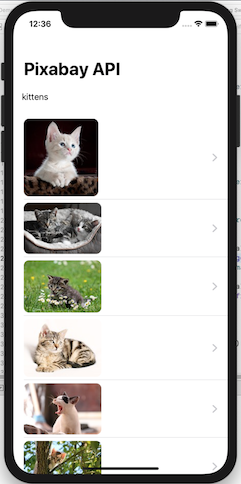
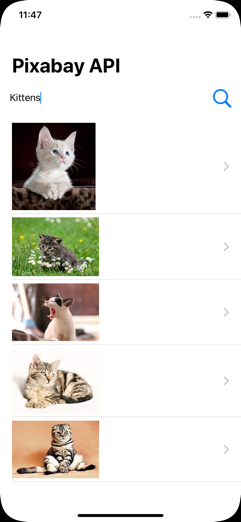
Updated README.md
Updated README.md to include details of changes for use of Combine framework

diff --git a/SwiftUI-ImageAPIDemo/SearchText.swift b/SwiftUI-ImageAPIDemo/SearchText.swift
@@ -10,16 +10,11 @@ import Foundation
 import SwiftUI
 import Combine
 
-/// A BindableObject that allows us to subscribe to changes to a String that is bound to a TextField.
+/// An ObservableObject that allows us to subscribe to changes to a String that is bound to a TextField.
 /// A simpler approach would be to have a @State String var with a didSet property observer. However,
-/// this doesn't seem to be supported (the didSet is never called) in SwiftUI currently (Xcode 11 Beta 3)
-class SearchText: BindableObject {
-    public var didChange = PassthroughSubject<Void, Never>()
+/// this doesn't seem to be supported (the didSet is never called) in SwiftUI currently (Xcode 11 Beta 5)
+class SearchText: ObservableObject {
+    //public var didChange = PassthroughSubject<Void, Never>()
     
-    public var text = "kittens" {
-        didSet {
-            print("Search text changed to: \(text)")
-            didChange.send()
-        }
-    }
+    @Published public var text = "kittens"
 }

diff --git a/SwiftUI-ImageAPIDemo/ContentView.swift b/SwiftUI-ImageAPIDemo/ContentView.swift
@@ -7,9 +7,9 @@
 //
 //  Updated for Xcode Beta 5
 //      -   @ObjectBinding deprecated for @ObservedObject
-//      -   BindableObject protocol deprecated for ObservableObject
-//      -   ObservableObject protocol requires objectWillChange property (publisher)
-//      -   Refactored PixabayHelper.loadImages(searchFor:) to use the Combine framework with URLSession dataTaskPublisher
+//      -   BindableObject protocol deprecated for ObservableObject in PixabayHelper
+//      -   Refactored PixabayHelper.loadImages(searchFor:) to use the Combine framework extension dataTaskPublisher on URLSession
+//      -   Refactored PixabayHelper to @Published imageData
 
 import SwiftUI
 

diff --git a/SwiftUI-ImageAPIDemo/PixabayHelper.swift b/SwiftUI-ImageAPIDemo/PixabayHelper.swift
@@ -43,6 +43,7 @@ class PixabayHelper: ObservableObject {
 
         pixabayUrl += pixabayApiKey + "&" + pixabayImageType + "&" + pixabayResultPerPage + "&q=" + searchFor
         
+        // Use the dataTaskPublisher(for:) Combine extension on URLSession to request data asynchronously
         let _ = URLSession.shared.dataTaskPublisher(for: URLRequest(url: URL(string: pixabayUrl)!))
             .receive(on: RunLoop.main)  // The whole chain fails without this!
             .tryMap { data, response -> Data in

diff --git a/SwiftUI-ImageAPIDemo/PixabayData.swift b/SwiftUI-ImageAPIDemo/PixabayData.swift
@@ -7,7 +7,6 @@
 //
 
 import Foundation
-import SwiftUI
 
 public struct PixabayData: Decodable {
     public var totalHits: Int

diff --git a/README.md b/README.md
@@ -1,11 +1,16 @@
 # SwiftUI-ImageAPIDemo
-Using SwiftUI to consume REST API with image data
+## Using SwiftUI and Combine to consume REST API image data
+**(Updated for Xcode 11 Beta 5)**
 
 ![](./readme-assets/final01.png)
 
-In this simple SwiftUI demo we create a simple iOS app that requests image data from Pixabay (https://pixabay.com) using its free REST-based API that returns JSON data.
+In this SwiftUI and Combine demo I create a simple iOS app that requests image data from Pixabay (https://pixabay.com) using its free REST-based API that returns JSON data.
+**SwiftUI** is used to create the UI and the new **Combine** framework is used to asynchronously request and decode JSON image data.
+
+The source shows the completed final version of the app. The text below provides details on how the app was created.
 
 ___
+
 ## Get a free Pixabay account
 First, register for an account at https://pixabay.com/en/accounts/register/
 
@@ -78,19 +83,19 @@ public struct PixabayImage: Decodable, Identifiable {
 ```
 
 * A class named **PixabayHelper**
-    * Used to make data requests to the REST API
-    * Decode the incoming JSON data and store it in a **pixabayData** private property
-    * Makes the **PixabayData.hits** array of **PixabayImage** data available via a public **imageData** property
-    * Conforms to the SwiftUI **BindableObject** protocol. This allows it to notify subscribers when data has been downloaded from Pixabay
-
+    * Used to make data requests to the REST API via a **Combine** extension **dataTaskPublisher(for:)** on **URLSession** 
+    * Decodes the incoming JSON data and caches it in a **pixabayData** property
+    * Makes the **PixabayData.hits** array of **PixabayImage** data available via a public **@Published imageData** property. Publishing imageData ensures that when it changes the **View** in **ContentView** is re-rendered
+    * Conforms to the SwiftUI **BindableObject** protocol. This allows **ContentView** to subscribe to changes via a **@ObservedObject PixabayHelper** property
+    
 * Main **ContentView** struct
-    * Will show a collection of preview images from the Pixabay data using a **List**
-    * Also shows a **TextField** allowing a search term to by entered
-    * Holds a **@ObjectBinding** var of **PixabayHelper**. When the data model (**imageData**) changes the **View** is invalidated and re-rendered
+    * Will show a collection of preview images from the Pixabay data using a SwiftUI **List**
+    * Displays a **TextField** and **Button** allowing a search term to be entered
+    * Holds a **@ObservedObject PixabayHelper** property. When the data (**imageData**) changes the **View** is invalidated and re-rendered
 
-* We’ll store static query string elements in a .plist file and use a class **PropertyFileHelper** to help retrieve values. This avoids having to hard-code items like the unique API key
-* When the user taps on a preview image we show the full image in a separate view
-* The user can enter a search term for the images to be retrieved. Note that SwiftUI does not yet support the equivalent of **UISearchController** so we create our own simple alternative
+* We store static query string elements in a .plist file and use a class **PropertyFileHelper** to help retrieve values. This avoids having to hard-code items like the unique API key
+* When the user taps on a preview image we show the full image in a separate detail view
+* The user enters a search term for the images to be retrieved. Note that SwiftUI does not yet support the equivalent of **UISearchController** so we create our own simple alternative
 
 ___
 
@@ -307,109 +312,60 @@ Create a class named PixabayHelper in a file named **PixabayHelper.swift**:
 //  Created by Russell Archer on 13/07/2019.
 //  Copyright © 2019 Russell Archer. All rights reserved.
 //
+//  Example Pixabay query: https://pixabay.com/api/?key=key-here&image_type=photo&per_page=5&q=coffee
+//
 
 import Foundation
 import UIKit
 import SwiftUI
 import Combine
 
-class PixabayHelper: BindableObject {
+class PixabayHelper: ObservableObject {
     fileprivate let plistHelper = PropertyFileHelper(file: "Pixabay")  // Allows us access to the Pixabay.plist config file
     fileprivate var pixabayData: PixabayData?  // Holds decoded JSON data loaded from Pixabay
     fileprivate var currentSearchText = ""
+    fileprivate enum networkError: Error { case statusCodeIndicatesError }
     
-    public var didChange = PassthroughSubject<Void, Never>()  // Allows us to publish a change message to subscribers
-    public var imageData: [PixabayImage] {  // Image data from Pixabay, or a default if no data has been loaded       
-        return pixabayData == nil ? [PixabayImage(imageName: "OwlSmall")] : pixabayData!.hits
+    // Configuration data
+    fileprivate var pixabayUrl: String
+    fileprivate let pixabayApiKey: String
+    fileprivate let pixabayImageType: String
+    fileprivate let pixabayResultPerPage: String
+    
+    /// This published imageData ensures that when the data changes the View in ContentView is re-rendered
+    @Published public var imageData: [PixabayImage] = [PixabayImage(imageName: "OwlSmall")]
+    
+    init() {
+        pixabayUrl = plistHelper.readProperty(key: "PixabayUrl")!
+        pixabayApiKey = plistHelper.readProperty(key: "PixabayApiKey")!
+        pixabayImageType = plistHelper.readProperty(key: "PixabayImageType")!
+        pixabayResultPerPage = plistHelper.readProperty(key: "PixabayResultsPerPage")!
     }
     
-    /// Gets image data from the Pixabay REST API. Notifies subscribers if data is successfully loaded
+    /// Gets image data from the Pixabay REST API
     /// - Parameter searchFor: The kind of image to search for
     public func loadImages(searchFor: String) {
-        guard searchFor.count > 2 else { return }
-        guard plistHelper.hasLoadedProperties else { return }
-        
         if searchFor == currentSearchText { return }
         currentSearchText = searchFor
+
+        pixabayUrl += pixabayApiKey + "&" + pixabayImageType + "&" + pixabayResultPerPage + "&q=" + searchFor
         
-        print("Loading data from Pixabay...")
-        // Example query: https://pixabay.com/api/?key=your-api-key&image_type=photo&q=coffee
-        guard var pixabayUrl = plistHelper.readProperty(key: "PixabayUrl") else { return }
-        guard let pixabayApiKey = plistHelper.readProperty(key: "PixabayApiKey") else { return }
-        guard let pixabayImageType = plistHelper.readProperty(key: "PixabayImageType") else { return }
-        
-        pixabayUrl += pixabayApiKey + "&" + pixabayImageType + "&q=" + searchFor
-        
-        let url = URL(string: pixabayUrl)!
-        let session = URLSession.shared
-        let task = session.dataTask(with: url) { [weak self] (json, response, error) in
-            guard let self = self else { return }
-            guard json != nil else { return }
-            let httpResponse = response as! HTTPURLResponse
-            print("HTTP response status code: \(httpResponse.statusCode)")  // 200 == OK
-            
-            guard httpResponse.statusCode == 200 else {
-                print("The HTTP response status code indicates there was an error")
-                return
+        // Use the dataTaskPublisher(for:) Combine extension on URLSession to request data asynchronously
+        let _ = URLSession.shared.dataTaskPublisher(for: URLRequest(url: URL(string: pixabayUrl)!))
+            .receive(on: RunLoop.main)  // The whole chain fails without this!
+            .tryMap { data, response -> Data in
+                guard let httpResponse = response as? HTTPURLResponse, httpResponse.statusCode == 200 else {
+                    throw networkError.statusCodeIndicatesError
+                }
+
+                return data  // Pick off just the JSON data
             }
-            
-            // This is the type-safe method of parsing the JSON.
-            // See the model PixabayData used to map the JSON
-            let decoder = JSONDecoder()
-            let dataModelType = PixabayData.self
-            self.pixabayData = try? decoder.decode(dataModelType, from: json!)
-            
-            guard self.pixabayData != nil else { return }
-            
-            DispatchQueue.main.async(execute: {
-                // Let subscribers know the data has changed.
-                // Because we're currently not running on the main thread we explicitly call
-                // on the main thread in case they try to update the UI
-                self.didChange.send()
+            .decode(type: PixabayData.self, decoder: JSONDecoder())  // Decode the JSON using our PixabayData model
+            .sink(receiveCompletion: { _ in }, receiveValue: { decodedData in
+                // Cache the received and decoded data
+                self.pixabayData = decodedData
+                self.imageData = self.pixabayData == nil ? [PixabayImage(imageName: "OwlSmall")] : self.pixabayData!.hits
             })
-        }
-        task.resume()
-    }
-}
-```
-
-Notice the use of the **JSONDecoder** class. We can call its **decode()** method and supply the anticipated incoming model for the JSON by passing the **Type** for our PixabayData model:
-
-``` swift
-let decoder = JSONDecoder()
-let dataModelType = PixabayData.self
-self.pixabayData = try? decoder.decode(dataModelType, from: json!)
-```
-
-___
-
-## Create a BindableObject for entering search text
-Create a new .swift file named **SearchText.swift**:
-
-``` swift
-//
-//  SearchText.swift
-//  SwiftUI-ImageAPIDemo
-//
-//  Created by Russell Archer on 14/07/2019.
-//  Copyright © 2019 Russell Archer. All rights reserved.
-//
-
-import Foundation
-import SwiftUI
-import Combine
-
-/// A BindableObject that allows us to subscribe to changes to a String that is bound to a TextField.
-/// A simpler approach would be to have a @State String var with a didSet property observer. However,
-/// this doesn't seem to be supported (the didSet is never called) in SwiftUI currently (Xcode 11 Beta 3)
-class SearchText: BindableObject {
-    public var didChange = PassthroughSubject<Void, Never>()
-    
-    public var text = "kittens" {
-        didSet {
-            print("Search text changed to: \(text)")
-            didChange.send()
-        }
     }
 }
 ```
@@ -427,28 +383,42 @@ Open **ContentView.swift** and add the following:
 //  Created by Russell Archer on 13/07/2019.
 //  Copyright © 2019 Russell Archer. All rights reserved.
 //
+//  Updated for Xcode Beta 5
+//      -   @ObjectBinding deprecated for @ObservedObject
+//      -   BindableObject protocol deprecated for ObservableObject in PixabayHelper
+//      -   Refactored PixabayHelper.loadImages(searchFor:) to use the Combine framework extension dataTaskPublisher on URLSession
+//      -   Refactored PixabayHelper to @Published imageData
 
 import SwiftUI
 
 struct ContentView : View {
-    // When our data model changes the View is invalidated and re-rendered
-    @ObjectBinding var pixabayHelper = PixabayHelper()  
-    @ObjectBinding var searchText = SearchText()
+    @ObservedObject var pixabayHelper = PixabayHelper()  // When our data model changes the View is invalidated and re-rendered
+    @State fileprivate var searchText = ""
     
     var body: some View {
-        pixabayHelper.loadImages(searchFor: searchText.text)  // Load image data via REST API
-        
-        return VStack {
-            TextField("Search", text: self.$searchText.text)
-                .padding()
-
-            List(pixabayHelper.imageData) { dataItem in
-                Image(uiImage: self.createImage(url: dataItem.previewURL))
-                .resizable()
-                .frame(width: (CGFloat)(dataItem.previewWidth), height: (CGFloat)(dataItem.previewHeight))
-                .aspectRatio(contentMode: .fit)
-                .cornerRadius(10)
+        NavigationView {
+            VStack {
+                HStack {
+                    TextField("Enter search term", text: $searchText).padding()
+                    
+                    Button(action: {
+                        self.pixabayHelper.loadImages(searchFor: self.searchText)
+                    }) {
+                        Image(systemName: "magnifyingglass").font(.largeTitle)
+                    }
+                    .padding()
+                }
+                
+                List(pixabayHelper.imageData) { dataItem in
+                    NavigationLink(destination: Image(uiImage: self.createImage(url: dataItem.webformatURL))) {
+                        Image(uiImage: self.createImage(url: dataItem.previewURL))
+                            .resizable()
+                            .frame(width: (CGFloat)(dataItem.previewWidth), height: (CGFloat)(dataItem.previewHeight))
+                            .aspectRatio(contentMode: .fit)
+                    }
+                }
             }
+            .navigationBarTitle(Text("Pixabay API"))
         }
     }
     
@@ -474,46 +444,14 @@ struct ContentView_Previews : PreviewProvider {
 
 ___
 
-## Run the app
-Running the app produces:
-
-![](./readme-assets/final01.png)
-
-___
-
-## Add navigation
-Adding navigation support to show a bigger detail image is simple.
+Note that we've include navigation support to show a bigger detail image.
 
 Wrap the existing **VStack** in a **NavigationView** (equivalent of UIKit **UINavigationController**).
-Now wrap the **Image** displayed in the **List** in a **NavigationLink**.
+Wrap the **Image** displayed in the **List** in a **NavigationLink**.
 
 Note that when the navigation link is tapped the destination is simply an **Image**. This works because the **NavigationLink** destination can be any object that conforms to the **View** protocol.
 
-``` swift
-var body: some View {
-    pixabayHelper.loadImages(searchFor: searchText.text)
-        
-    return NavigationView {
-        VStack {
-            TextField("Search", text: self.$searchText.text)
-                .padding()
-
-            List(pixabayHelper.imageData) { dataItem in
-                NavigationLink(destination: Image(uiImage: self.createImage(url: dataItem.webformatURL))) {
-                    Image(uiImage: self.createImage(url: dataItem.previewURL))
-                        .resizable()
-                        .frame(width: (CGFloat)(dataItem.previewWidth), height: (CGFloat)(dataItem.previewHeight))
-                        .aspectRatio(contentMode: .fit)
-                        .cornerRadius(10)
-                }
-            }
-        }
-        .navigationBarTitle(Text("Pixabay API"))
-    }
-}
-```
-
-The app now looks like this:
+Running the app produces:
 
 ![](./readme-assets/final01.png)
 
